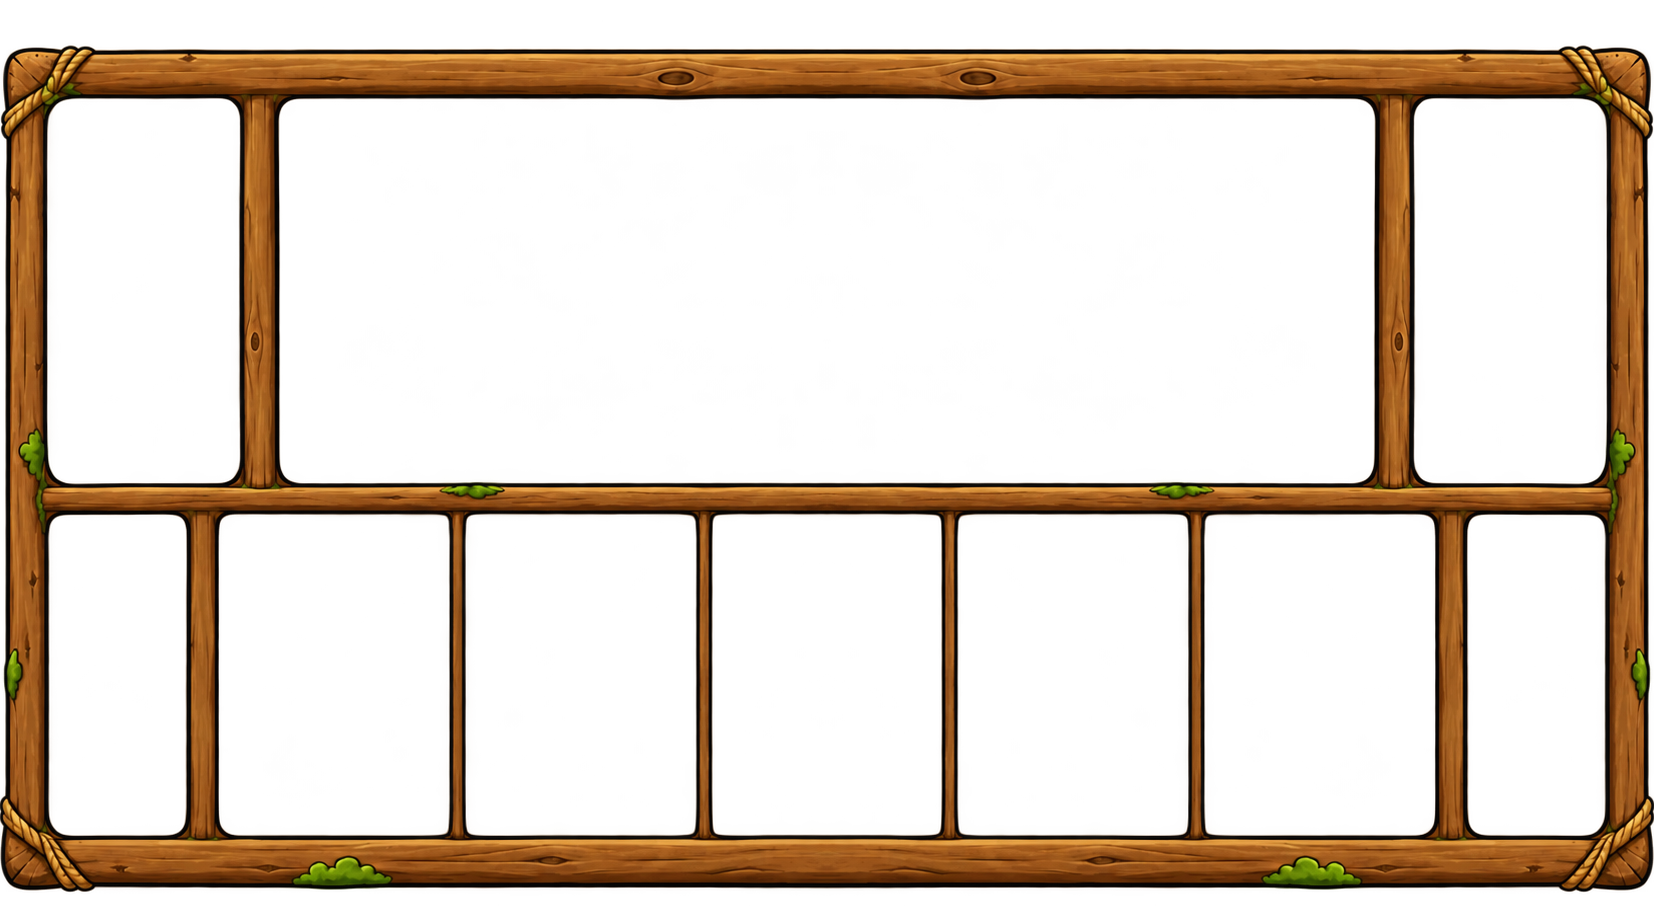
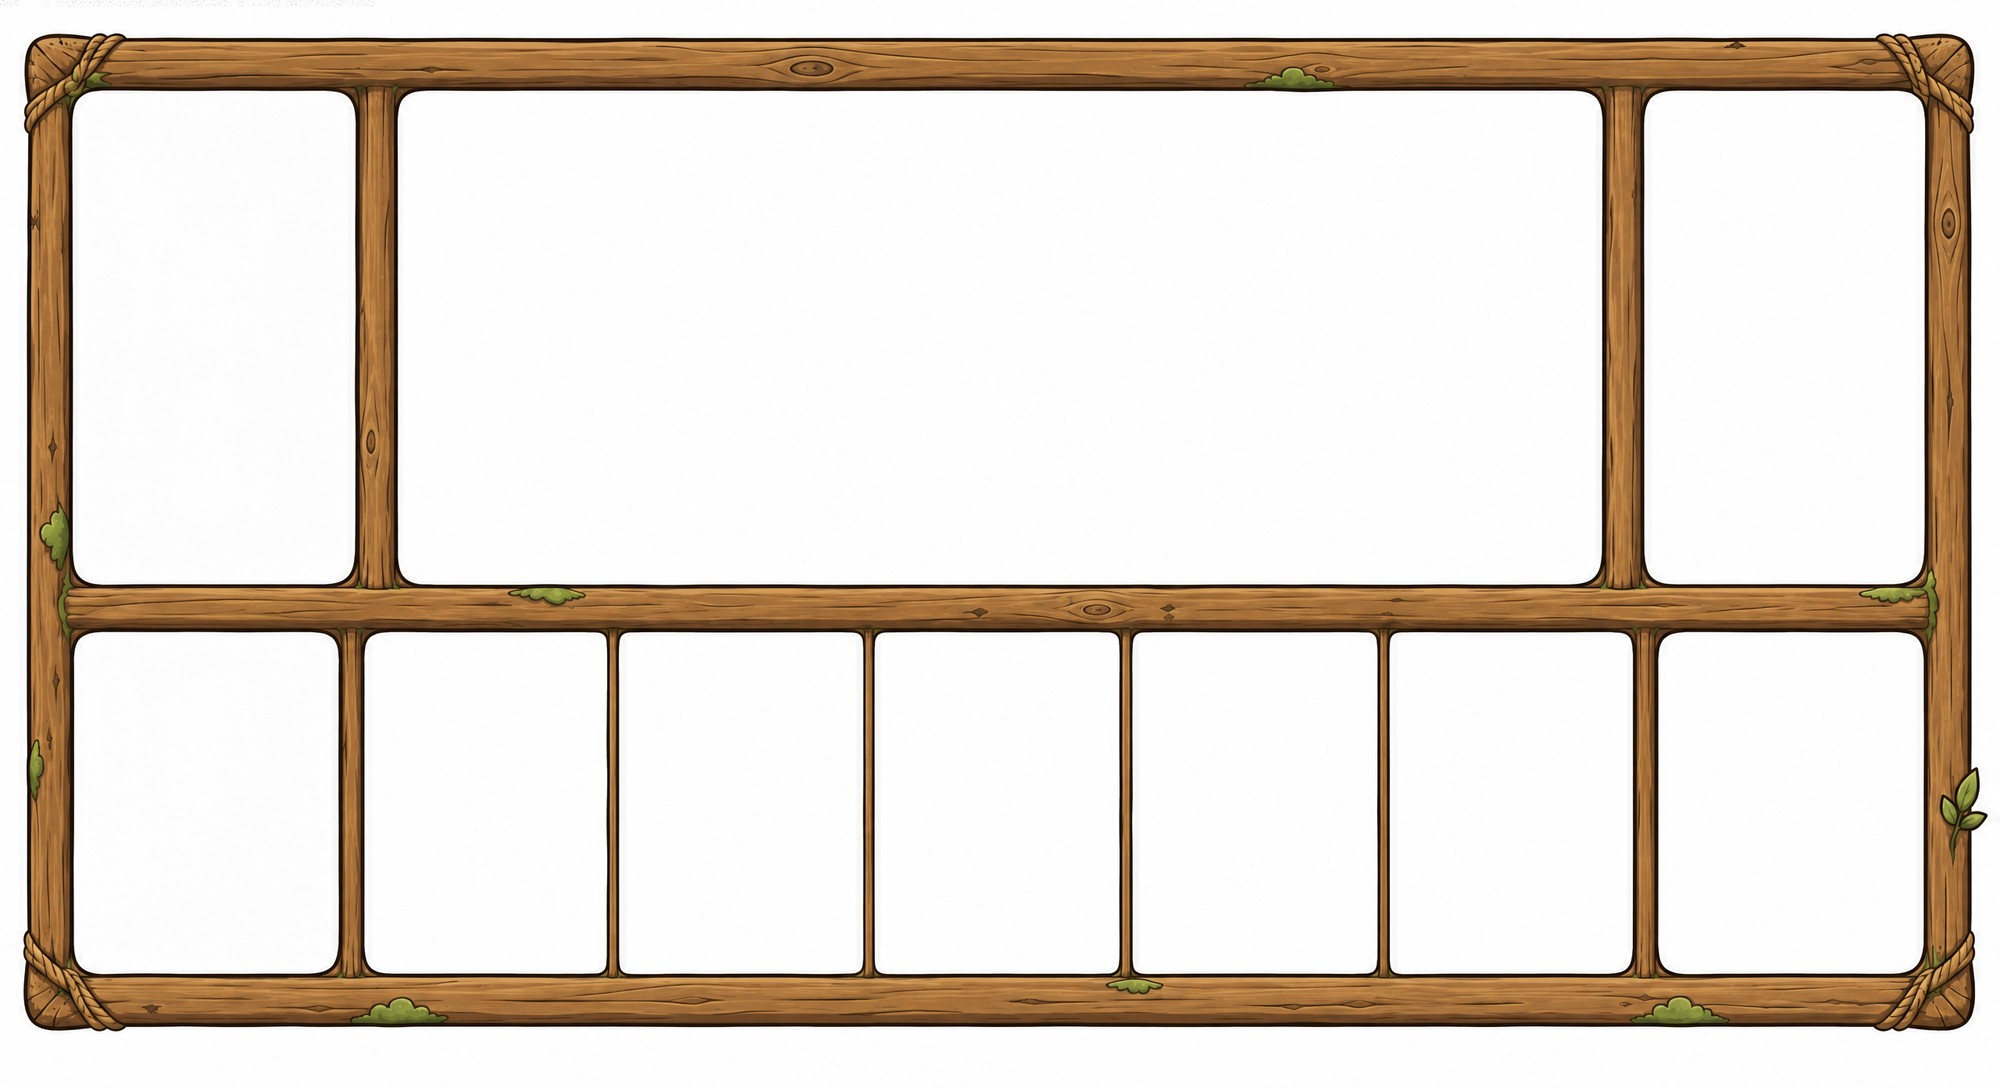
feat: play_frame을 새 그림(밧줄 모서리)으로 교체 — 칸 10개 좌표·비율을 새 액자에 맞춤
받은 그림(흰 배경 2000×1088)을 잘라 1965×1000 액자로 갈았다. 칸 10개(윗줄 3 ·
아랫줄 7)는 그대로지만 비율이 달라져, 칸 안의 내용이 새 구멍에 맞도록 좌표를 다시 쟀다.

  경험치  가로/세로 0.50 → 0.57   보드  2.85 → 2.44
  체력    0.43 → 0.78 (이제 카드 칸보다 넓다)   카드  0.72 → 0.71

- cutPlaySheet.mjs에 `holes` 옵션 — 나무에 둘러싸인 흰 칸을 **전부** 뚫는다.
  기존 `hollow`는 가운데에서 한 번만 채워, 칸이 여럿이면 가운데 칸만 비었다.
  칸 가장자리 한 겹은 바깥 배경과 같은 식으로 알파를 깎아 흰 테를 없앤다.
- 칸 좌표·카드 띠·fr 폭·칸 사이 간격·안내 띠 자리를 새 그림의 연결 성분 실측값으로.
- 액자 비율 847/1654 → 1000/1965, 세로 예산 0.588 → 0.585, 칸 둥글기 14 → 22px.
- 경험치 칸 치수 기준(--exp-w)을 좌우 칸 폭(14.351% · 14.300%)으로.
- 체력 숫자를 고정 2.75rem에서 액자 폭 비례로 — 칸이 두 배 가까이 넓어져 숫자만
  작아 보였다(1920 58px · 1366 41px).

좌우 차이가 1~2px뿐이라 mirrorPlayFrame.mjs(왼쪽 절반 뒤집기)는 돌리지 않았다 —
돌리면 오른쪽에만 있는 덩굴이 사라진다. 그래서 예전 비대칭 원본 play_frame_src.png는
더 쓰지 않아 뺐다(이력에 남아 있다).

⚠ 받은 그림이 세션에서 2000×1088 JPEG로 왔다(원본 2560×1392). 예전 액자(1654)보다
커서 쓰기엔 충분하지만, 원본 PNG가 있으면 assets-src/play_frame.png에 넣고
`node scripts/cutPlaySheet.mjs --list play_frame.png`로 `at`만 다시 찍으면 된다.

검증: 프로덕션 빌드(3200)로 measurePlay 3해상도 × 2단계 문제 없음, 액자 1809×921
(그림 비율 그대로), 1920·1366 스크린샷으로 칸 10개가 나무 구멍과 맞는 것 확인.
server 63/63, 루트 tsc, client build 통과.

diff --git a/client/app/globals.css b/client/app/globals.css
@@ -8,14 +8,14 @@
 
      폭은 **세로 예산**이 정한다 — 둘을 쌓은 높이가 화면을 넘으면 안 되므로:
        상단 바 보이는 높이   W × 189/2500 = 0.0756 W
-       액자 높이             W × 847/1654 = 0.5121 W
-       합                                 ≈ 0.588 W  ≤ 98vh
+       액자 높이             W × 1000/1965 = 0.5089 W
+       합                                  ≈ 0.585 W  ≤ 98vh
      가로로는 --stage-pad만큼 양옆을 비운다 — 화면을 꽉 채우지 않는다.
 
-     ⚠ 액자 그림을 갈아끼우면 847/1654와 0.588을 **함께** 고칠 것. 비율만 고치고
+     ⚠ 액자 그림을 갈아끼우면 1000/1965와 0.585를 **함께** 고칠 것. 비율만 고치고
      0.588을 두면 세로가 넘치거나 아래가 크게 남는다. */
   --stage-pad: 2.5vw;
-  --stage-w: min(calc(100vw - var(--stage-pad) * 2), calc(98vh / 0.588));
+  --stage-w: min(calc(100vw - var(--stage-pad) * 2), calc(98vh / 0.585));
   /* 상단 바와 액자 사이 숨통 — 0이면 두 나무가 맞닿아 한 덩어리로 보인다 */
   --stage-gap: 0.8vh;
   --beam-h: calc(var(--stage-w) * 233 / 2500);
@@ -3784,11 +3784,11 @@ body {
 
    ⚠ 액자는 `main` 안에서 세로 가운데 정렬이라 화면 위에서의 위치가 고정이 아니다.
    `.play-frame`과 **같은 식**으로 다시 계산한다(fixed 요소라 그 변수를 물려받지 못한다):
-     액자 높이 = --stage-w × 690/1352
+     액자 높이 = --stage-w × 1000/1965
      액자 윗변 = 상단 바가 먹은 높이 + (남은 높이 − 액자 높이) / 2
-   ⚠ 액자 그림을 갈아끼우면 690/1352를 `.play-frame`과 **함께** 고칠 것. */
+   ⚠ 액자 그림을 갈아끼우면 1000/1965를 `.play-frame`과 **함께** 고칠 것. */
 .play-progress-top {
-  --pf-h: calc(var(--stage-w) * 847 / 1654);
+  --pf-h: calc(var(--stage-w) * 1000 / 1965);
   --frame-top: calc(var(--beam-vis) + (100vh - var(--beam-vis) - var(--pf-h)) / 2);
   /* 액자 윗변에 **반쯤 걸친다** — 절반은 그 위로 뜬다.
      ⚠ 더 위로 올리면 단계 판의 알약("행동 선택")을 가린다. 판이 들보를 거의 꽉
@@ -3973,7 +3973,7 @@ body {
 /* ══════════════════════════════════════════════════════════════════════════
    플레이 화면 통짜 액자 — `.play-frame` + 칸 10개
 
-   `play_frame.webp`(1943×892)는 **칸막이까지 그려진 한 장**이라, 칸 10개의 자리가
+   `play_frame.webp`(1965×1000)는 **칸막이까지 그려진 한 장**이라, 칸 10개의 자리가
    그림 안에 이미 정해져 있다.
 
      윗줄    경험치(좌) · 장소/카드(가운데) · 경험치(우)
@@ -3996,9 +3996,10 @@ body {
      폭이 어긋난다. 세로가 넘치지 않는 것은 --stage-w가 이미 "상단 바 + 액자"를
      함께 세어 정하기 때문이다(:root 주석 참고). */
   --pf-w: var(--stage-w);
-  --pf-h: calc(var(--pf-w) * 847 / 1654);
-  /* 칸 모서리 둥글기 — 그림에서 잰 값이 칸마다 5~21px이라 14px 하나로 묶고 배율만큼 줄인다 */
-  --cell-r: calc(var(--pf-w) * 14 / 1654);
+  --pf-h: calc(var(--pf-w) * 1000 / 1965);
+  /* 칸 모서리 둥글기 — 그림에서 잰 값이 칸마다 22~25px이라 22px 하나로 묶고 배율만큼 줄인다.
+     칸(양피지)이 나무 **위에** 그려지므로 구멍보다 덜 둥글면 종이 모서리가 나무를 덮는다. */
+  --cell-r: calc(var(--pf-w) * 22 / 1965);
 
   position: relative;
   width: var(--pf-w);
@@ -4024,8 +4025,8 @@ body {
    좁아진 칸에서 얼굴이 숫자를 덮는다 — 실제로 얼굴 64px + 레벨 배지가 폭을 다 먹어
    "0/10"의 끝자리가 얼굴 뒤로 들어갔다(1366에서 칸이 167 → 150px로 줄었을 때).
    --exp-w는 칸의 실제 폭이다(액자 폭 × 칸 비율). */
-.play-cell-exp-a,
-.play-cell-exp-b { --exp-w: calc(var(--pf-w) * 0.11669); }
+.play-cell-exp-a { --exp-w: calc(var(--pf-w) * 0.14351); }
+.play-cell-exp-b { --exp-w: calc(var(--pf-w) * 0.14300); }
 .exp-row      { gap: calc(var(--exp-w) * 0.035); padding-inline: calc(var(--exp-w) * 0.035); }
 .exp-row-face { width: calc(var(--exp-w) * 0.26); height: calc(var(--exp-w) * 0.26); }
 .exp-row-lv   { padding-inline: calc(var(--exp-w) * 0.045); }
@@ -4034,29 +4035,43 @@ body {
 .exp-row-value  { font-size: calc(var(--exp-w) * 0.12); }
 .exp-row-bar    { height: calc(var(--exp-w) * 0.07); }
 
-/* 윗줄 — 좌우 여백이 2.737%로 **같다**(왼쪽 절반을 뒤집어 붙인 그림이라 정의상 대칭) */
-.play-cell-exp-a { left:  2.842%; top:  6.257%; width: 11.669%; height: 45.573%; }
-.play-cell-board { left: 16.868%; top:  6.257%; width: 66.264%; height: 45.455%; }
-.play-cell-exp-b { left: 85.490%; top:  6.257%; width: 11.669%; height: 45.573%; }
+/* 칸 좌표 — `play_frame.webp`(1965×1000)에서 투명한 칸 10개를 연결 성분으로 잰 값.
+   (2026-09-18 새 액자) 받은 그림을 그대로 썼다 — 좌우 차이가 1~2px뿐이라 예전처럼
+   왼쪽 절반을 뒤집어 붙이지 않았다(그러면 오른쪽에만 있는 덩굴이 사라진다).
 
-/* 아랫줄 양 끝 — 체력. 카드칸(12.87%)보다 좁아야 한다는 조건은 그대로다(8.654%) */
-.play-cell-hp-a  { left:  2.963%; top: 55.490%; width:  8.343%; height: 37.898%; }
-.play-cell-hp-b  { left: 88.694%; top: 55.490%; width:  8.343%; height: 37.898%; }
+   예전 액자와 달라진 비율 — 칸 안의 내용이 여기에 맞춰 바뀐다:
+     경험치  가로/세로 0.50 → 0.57   (넓어짐)
+     보드    2.85 → 2.44              (키가 커짐)
+     체력    0.43 → 0.78              (**거의 두 배 넓어짐** — 이제 카드 칸보다 넓다)
+     카드    0.72 → 0.71              (그대로) */
+.play-cell-exp-a { left:  2.545%; top:  5.900%; width: 14.351%; height: 49.300%; }
+.play-cell-board { left: 19.084%; top:  5.900%; width: 61.272%; height: 49.400%; }
+.play-cell-exp-b { left: 82.494%; top:  5.900%; width: 14.300%; height: 49.300%; }
+
+/* 아랫줄 양 끝 — 체력. ⚠ 예전 그림은 이 칸이 카드 칸보다 **좁았는데**(8.3% 대 14.0%)
+   새 그림은 **더 넓다**(13.5% 대 12.4%). */
+.play-cell-hp-a  { left:  2.595%; top: 60.000%; width: 13.486%; height: 34.200%; }
+.play-cell-hp-b  { left: 83.257%; top: 60.000%; width: 13.486%; height: 34.200%; }
+/* 체력 숫자 — 고정 2.75rem이면 칸이 넓어진 만큼 숫자만 작아 보인다. 액자 폭에 비례시킨다
+   (1920에서 58px, 1366에서 41px). 칸 밖에서 쓰는 .hp-orb-value는 원래 값 그대로다. */
+.play-cell-hp-a .hp-orb-value,
+.play-cell-hp-b .hp-orb-value { font-size: calc(var(--pf-w) * 0.032); }
 
 /* 기술 카드 다섯 칸 — 낱장으로 흩어 놓지 않고 **띠 하나**로 덮은 뒤 그 안에서 나눈다.
-   ⚠ 칸 폭이 248~267px로 제각각이라 `fr`에 실측값을 그대로 넣었다 — 균등 분할하면
-   가운데로 갈수록 나무 구멍과 어긋난다(양 끝은 맞는데 3번 칸이 3px씩 밀린다). */
+   ⚠ 칸 폭이 242~245px로 제각각이라 `fr`에 실측값을 그대로 넣었다 — 균등 분할하면
+   가운데로 갈수록 나무 구멍과 어긋난다.
+   띠 = 첫 칸 왼쪽(x 342)부터 끝 칸 오른쪽(x 1610)까지 1268px. */
 .play-cards {
   position: absolute;
-  left: 13.241%;
-  top: 55.372%;
-  width: 73.519%;
-  height: 38.017%;
+  left: 17.405%;
+  top: 60.000%;
+  width: 64.529%;
+  height: 34.200%;
 }
 .play-cards-grid {
   display: grid;
-  grid-template-columns: 231fr 231fr 230fr 231fr 231fr;
-  gap: 1.275%;            /* 칸 사이 네 곳의 평균 15.5px */
+  grid-template-columns: 242fr 244fr 244fr 245fr 243fr;
+  gap: 0.986%;            /* 칸 사이 네 곳(12·12·13·13px)의 평균 12.5px ÷ 띠 1268px */
   height: 100%;
 }
 /* 카드 한 장 — 칸과 **같은** 둥글기여야 나무 구멍과 어긋나 보이지 않는다.
@@ -4068,17 +4083,17 @@ body {
    보드 칸 **안쪽 아래**에 반투명 양피지 띠로 띄운다.
    ⚠ 보드 위에 겹치므로 `pointer-events: none`이 필요하다 — 장소 타일 맨 아랫줄의
    클릭을 이 띠가 가로채면 카드를 뽑을 수 없다. 안의 버튼만 다시 켠다. */
-/* 자리는 보드 칸과 카드 줄 **사이의 가로 들보** 위다(y 61.5%~65.8%).
+/* 자리는 보드 칸과 카드 줄 **사이의 가로 들보** 위다(y 55.3%~60.0%).
    ⚠ 이 띠는 `.play-frame`의 **직속 자식**이어야 한다 — 보드 칸 안에 두면 칸의
    `overflow: hidden`에 쪽지가 잘린다(실제로 아랫단이 잘렸다).
    들보가 38px밖에 안 되지만 액자는 내용을 자르지 않으므로, 쪽지가 위아래로 조금씩
    넘쳐 표지판처럼 걸린다 — 가리는 면적이 가장 작은 자리다. */
 .play-prompt-strip {
   position: absolute;
-  left: 16.868%;
-  width: 66.264%;
-  top: 51.712%;    /* 보드 칸 바로 아래(6.257 + 45.455) */
-  height: 3.660%;  /* 카드 줄(55.372)까지 */
+  left: 19.084%;
+  width: 61.272%;
+  top: 55.300%;    /* 보드 칸 바로 아래(5.900 + 49.400) */
+  height: 4.700%;  /* 카드 줄(60.000)까지 */
   z-index: 22;
   pointer-events: none;
 }

diff --git a/client/lib/playAssets.ts b/client/lib/playAssets.ts
@@ -34,11 +34,11 @@ export const PLAY_ASSETS = {
   upperBar: '/play/upper_bar.webp',
 
   /**
-   * 플레이 화면 **통짜 액자**(1654×847) — 칸막이까지 그려진 한 장.
+   * 플레이 화면 **통짜 액자**(1965×1000) — 칸막이까지 그려진 한 장.
    *
-   * ⚠ 받은 원본(`play_frame_src.png`)은 **좌우가 비대칭**이었다(체력칸 117 대 131).
-   * `scripts/mirrorPlayFrame.mjs`가 왼쪽 절반을 뒤집어 붙여 대칭본을 만든다 —
-   * 원본을 갈아끼우면 그 스크립트를 **다시 돌려야** 한다.
+   * 2026-09-18에 새 그림(밧줄 모서리·이끼)으로 갈았다. 원본 `assets-src/play_frame.png`를
+   * **그대로** 자른다 — 좌우 차이가 1~2px뿐이라 `scripts/mirrorPlayFrame.mjs`(왼쪽 절반
+   * 뒤집기)는 돌리지 않았다. 돌리면 오른쪽에만 있는 덩굴이 사라진다.
    *
    * 칸 10개(윗줄 3 · 아랫줄 7)의 자리가 그림 안에 이미 정해져 있어, 화면 배치를
    * 정하는 주체가 CSS가 아니라 **이 그림**이다. 칸 좌표는 globals.css의

diff --git a/client/public/play/README.md b/client/public/play/README.md
@@ -7,8 +7,7 @@
 | --- | --- |
 | `master_sheet.png` | 상단 바 · 알약 · 게이지 · 노트 · 화살표 · 장식 (36조각) — **색 보정본**(2560×1339) |
 | `team_pills.png` | 팀 이름표 알약 두 장 (연두·빨강) |
-| `play_frame_src.png` | 플레이 화면 통짜 액자 — **받은 원본**(좌우 비대칭) |
-| `play_frame.png` | 위를 좌우 대칭으로 만든 것 — `node scripts/mirrorPlayFrame.mjs assets-src/play_frame_src.png assets-src/play_frame.png` |
+| `play_frame.png` | 플레이 화면 통짜 액자 — **받은 그림 그대로**(2000×1088, 흰 배경). 칸 10개를 `holes`로 뚫는다. 2026-09-18 교체 — 좌우 차이가 1~2px라 뒤집어 붙이지 않았다 |
 | `frames_sheet.png` | **나무 액자 3종 + 양피지 3종** — 가로·정사각·세로 한 벌씩 |
 | `frame_sheet.png` | 양피지(`pg_*`) 여섯 장. 여기 있던 나무테(`wf_*`)·통나무 바는 걷어냈다 |
 | `card_frame_sheet.png` | 기술 카드 금색 액자와 모서리 장식 |
@@ -82,7 +81,7 @@ cd client && node scripts/cutPlaySheet.mjs
 | 클래스 | 그림 | 크기 | 분할 | 값 | 쓰는 곳(높이) |
 | --- | --- | --- | --- | --- | --- |
 | `.play-beam` | **`upper_bar`** | 2500×233 | **분할 없음 — 통째 확대** | 상자 비율을 그림 비율에 맞춤 | 상단 바 (너비의 1/10.73) |
-| `.play-frame` | **`play_frame`** | 1654×847 | **분할 없음 — 통째 확대** | 칸 좌표를 %로 (`.play-cell-*`) | 플레이 화면 전체 |
+| `.play-frame` | **`play_frame`** | 1965×1000 | **분할 없음 — 통째 확대** | 칸 좌표를 %로 (`.play-cell-*`) | 플레이 화면 전체 |
 | `.play-nameplate` | (그림 없음 — 팻말이 `upper_bar` 안에 있다) | — | 절대 배치 | x 129 / y 71 / 304×107 (÷237) | 팻말 위 두 줄 |
 | `.play-pill-green` | `pill_green` | 410×227 | 3분할 | 캡 **`--pill-h`×109·92/227** | 팀 알약(우리) |
 | `.play-pill-red` | `pill_red` | 412×228 | 3분할 | 캡 **`--pill-h`×110·91/228** | 팀 알약(상대) |
